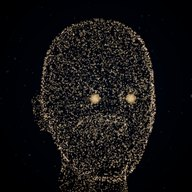
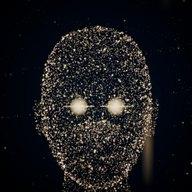
Preview: particle face tuned toward the user's reference (not shipped) [skip ci]

diff --git a/app/src/main/assets/www/local/particles.js b/app/src/main/assets/www/local/particles.js
@@ -5,9 +5,9 @@
 import * as THREE from 'three';
 import { MeshSurfaceSampler } from 'three/addons/math/MeshSurfaceSampler.js';
 
-const COUNT = 32000, DOT_PX = 1.6, DUST = 700;
+const COUNT = 32000, DOT_PX = 1.6, DUST = 900, RING = 900;
 const STATE = {                                     // [colour, glow] for each state (colour tints the gold a little)
-  idle: [0xffd9a0, 0.55], standby: [0xffd9a0, 0.55], session: [0xbff7e4, 0.8], listening: [0xbff7e4, 0.85],
+  idle: [0xffbe5c, 0.6], standby: [0xffbe5c, 0.6], session: [0xbff7e4, 0.8], listening: [0xbff7e4, 0.85],
   thinking: [0xffcf7a, 1.7], speaking: [0xd8f1ff, 0.95], muted: [0xff9aa2, 0.3],
 };
 
@@ -27,8 +27,9 @@ void main() {
   vec4 mv = modelViewMatrix * vec4(p, 1.0);
   gl_Position = projectionMatrix * mv;
   vHot = mouth * uSpeak;
-  vAlpha = aFade * (0.55 + 0.45 * (0.5 + 0.5 * tw));
-  gl_PointSize = uSize * (0.7 + 0.6 * fract(aPhase * 7.31)) * (1.0 + vHot * 0.8) / max(0.1, -mv.z);
+  float spark = pow(max(0.0, sin(uTime * (0.6 + aPhase * 1.7) + aPhase * 80.0)), 40.0);       // now and then a dot flashes
+  vAlpha = aFade * (0.55 + 0.45 * (0.5 + 0.5 * tw)) + spark * 1.2;
+  gl_PointSize = uSize * (0.6 + 1.5 * pow(fract(aPhase * 7.31), 8.0)) * (1.0 + vHot * 0.8 + spark * 0.9) / max(0.1, -mv.z);
 }`;
 const FRAG = `
 uniform vec3 uColor; uniform float uEnergy, uOpacity;
@@ -36,18 +37,28 @@ varying float vAlpha; varying float vHot;
 void main() {
   float d = length(gl_PointCoord - 0.5); if (d > 0.5) discard;
   float core = smoothstep(0.5, 0.0, d);
-  gl_FragColor = vec4(uColor * (0.6 + uEnergy * 0.7 + vHot), core * core * vAlpha * uOpacity * (0.45 + uEnergy * 0.5));
+  vec3 c = mix(uColor, vec3(1.0, 0.95, 0.85), smoothstep(0.25, 0.0, d) * 0.7);
+  gl_FragColor = vec4(c * (0.6 + uEnergy * 0.7 + vHot), core * vAlpha * uOpacity * (0.45 + uEnergy * 0.5));
 }`;
 
 // a small bright glint with a soft sideways streak (an eye catching the light), not a big glowing ball
 function glintTexture() {
   const c = document.createElement('canvas'); c.width = 128; c.height = 64; const g = c.getContext('2d');
   const streak = g.createLinearGradient(0, 0, 128, 0);
-  streak.addColorStop(0, 'rgba(255,210,140,0)'); streak.addColorStop(0.5, 'rgba(255,235,200,0.55)'); streak.addColorStop(1, 'rgba(255,210,140,0)');
-  g.fillStyle = streak; g.fillRect(24, 31, 80, 2);
-  const r = g.createRadialGradient(64, 32, 0, 64, 32, 18);
+  streak.addColorStop(0, 'rgba(255,210,140,0)'); streak.addColorStop(0.5, 'rgba(255,240,215,0.9)'); streak.addColorStop(1, 'rgba(255,210,140,0)');
+  g.fillStyle = streak; g.fillRect(34, 31, 60, 2);
+  const r = g.createRadialGradient(64, 32, 0, 64, 32, 11);
   r.addColorStop(0, 'rgba(255,255,255,1)'); r.addColorStop(0.3, 'rgba(255,236,200,0.8)'); r.addColorStop(1, 'rgba(255,200,120,0)');
   g.fillStyle = r; g.fillRect(40, 8, 48, 48); return new THREE.CanvasTexture(c);
+}
+
+// a soft vertical streak: a ray of light falling through the dark
+function rayTexture() {
+  const c = document.createElement('canvas'); c.width = 16; c.height = 128; const g = c.getContext('2d');
+  const v = g.createLinearGradient(0, 0, 0, 128); v.addColorStop(0, 'rgba(255,220,170,0)'); v.addColorStop(0.5, 'rgba(255,230,190,1)'); v.addColorStop(1, 'rgba(255,220,170,0)');
+  const h = g.createLinearGradient(0, 0, 16, 0); h.addColorStop(0, 'rgba(0,0,0,1)'); h.addColorStop(0.5, 'rgba(0,0,0,0)'); h.addColorStop(1, 'rgba(0,0,0,1)');
+  g.fillStyle = v; g.fillRect(0, 0, 16, 128); g.globalCompositeOperation = 'destination-out'; g.fillStyle = h; g.fillRect(0, 0, 16, 128);
+  return new THREE.CanvasTexture(c);
 }
 
 // reads a mesh's texture at a uv: [luminance, alpha] (hair is drawn on mostly transparent cards; skin is darker at the lips
@@ -79,7 +90,7 @@ export function particlize(model, { state = () => 'idle', level = () => 0, speak
   // where the head is, in the model's own space: our faces say so; otherwise guess from the bounding box
   const box = new THREE.Box3().setFromObject(model).applyMatrix4(toModel);
   const meta = model.userData.jvHead || { top: box.max.y, neck: box.max.y - (box.max.y - box.min.y) * 0.35 };
-  const span = meta.top - meta.neck, low = meta.neck - span * 0.3;             // keep the neck, fade out at the shoulders
+  const span = meta.top - meta.neck, low = meta.neck - span * 0.15;            // no body: the neck fades out under the chin
   const center = new THREE.Vector3(meta.cx || 0, meta.neck + span * 0.55, meta.cz || 0), d = new THREE.Vector3();
 
   // scatter points over the surfaces, by area
@@ -99,10 +110,10 @@ export function particlize(model, { state = () => 'idle', level = () => 0, speak
       const tx = tex ? tex(uv) : [ref, 1]; if (cards && tx[1] < 0.5) continue;   // skip see-through bits of hair cards
       nrm.transformDirection(mat);
       if (!cards && nrm.dot(d.subVectors(v, center)) < 0) continue;            // inside the mouth and nose: faces pointing inwards
-      if (!cards && Math.random() > 0.15 + 0.85 * Math.abs(nrm.z)) continue;   // surfaces seen edge-on pile dots up into bright creases: thin them
-      const tone = cards ? (brow ? 1.0 : 0.45) : Math.min(1.1, Math.max(0.85, tx[0] / (ref || 1)));
       d.subVectors(v, center).setY(0).normalize(); const outline = Math.pow(1 - Math.abs(nrm.z), 2) * Math.max(0, nrm.x * d.x + nrm.z * d.z);   // the head's outer edge, not creases inside the face
-      pos.push(v.x, v.y, v.z); phase.push(Math.random()); fade.push(tone * (1 + outline) * Math.min(1, Math.max(0.05, (v.y - low) / (span * 0.3))));
+      if (!cards && outline < 0.3 && Math.random() > 0.1 + 0.6 * Math.abs(nrm.z)) continue;   // inside the face: sparse, see-through (creases would pile up)
+      const tone = cards ? (brow ? 1.0 : 0.45) : Math.min(1.1, Math.max(0.85, tx[0] / (ref || 1)));
+      pos.push(v.x, v.y, v.z); phase.push(Math.random()); fade.push(tone * (0.55 + 0.5 * (1 - Math.abs(nrm.z)) + 1.4 * outline) * Math.min(1, Math.max(0.05, (v.y - low) / (span * 0.3))));   // features and outline bright, the middle of the face see-through
     }
     m.visible = false;
   });
@@ -122,7 +133,7 @@ export function particlize(model, { state = () => 'idle', level = () => 0, speak
   let front = -Infinity; for (let i = 0; i < pos.length; i += 3) if (Math.abs(pos[i + 1] - mouthY) < span * 0.04) front = Math.max(front, pos[i + 2]);
   const u = {
     uTime: { value: 0 }, uEnergy: { value: 0.55 }, uSwirl: { value: 0 }, uSize: { value: 1 }, uOpacity: { value: 1 },
-    uColor: { value: new THREE.Color(0xffd9a0) }, uMouthY: { value: mouthY }, uMouthZ: { value: (Number.isFinite(front) ? front : 0) - span * 0.06 },
+    uColor: { value: new THREE.Color(0xffbe5c) }, uMouthY: { value: mouthY }, uMouthZ: { value: (Number.isFinite(front) ? front : 0) - span * 0.06 },
     uSpeak: { value: 0 }, uMic: { value: 0 }, uSpan: { value: span }, uCenter: { value: center },
   };
   const pmat = new THREE.ShaderMaterial({ uniforms: u, vertexShader: VERT, fragmentShader: FRAG, transparent: true, depthWrite: false, blending: THREE.AdditiveBlending });
@@ -135,9 +146,26 @@ export function particlize(model, { state = () => 'idle', level = () => 0, speak
     const eb = new THREE.Box3(); eyes.forEach(e => eb.expandByObject(e)); eb.applyMatrix4(toModel);
     const c = eb.getCenter(new THREE.Vector3()), dx = (eb.max.x - eb.min.x) / 4, tex = glintTexture();
     for (const sx of [-1, 1]) {
-      const sp = new THREE.Sprite(new THREE.SpriteMaterial({ map: tex, color: 0xffe2b0, transparent: true, depthWrite: false, depthTest: false, blending: THREE.AdditiveBlending }));
-      sp.position.set(c.x + sx * dx - center.x, c.y - center.y, eb.max.z - center.z); sp.scale.set(span * 0.2, span * 0.1, 1); pivot.add(sp); lights.push(sp);
+      const sp = new THREE.Sprite(new THREE.SpriteMaterial({ map: tex, color: 0xfff0d6, transparent: true, depthWrite: false, depthTest: false, blending: THREE.AdditiveBlending }));
+      sp.position.set(c.x + sx * dx - center.x, c.y - center.y, eb.max.z - center.z); sp.scale.set(span * 0.3, span * 0.15, 1); pivot.add(sp); lights.push(sp);
     }
+  }
+
+  // faint orbits of dust around the head, and soft rays of light falling through the dark
+  const rp = [], rph = [], rf = [];
+  for (const [tilt, rad] of [[0.35, 1.25], [-0.3, 1.5], [1.25, 1.4], [0.9, 1.75]]) for (let i = 0; i < RING; i++) {
+    const t = Math.random() * Math.PI * 2, r = span * rad * (0.93 + Math.random() * 0.14), y = Math.sin(t) * r * Math.sin(tilt);
+    rp.push(Math.cos(t) * r, y, Math.sin(t) * r * Math.cos(tilt)); rph.push(Math.random()); rf.push(0.15 + 0.6 * Math.random() * Math.random());
+  }
+  const rg = new THREE.BufferGeometry(); rg.setAttribute('position', new THREE.Float32BufferAttribute(rp, 3));
+  rg.setAttribute('aPhase', new THREE.Float32BufferAttribute(rph, 1)); rg.setAttribute('aFade', new THREE.Float32BufferAttribute(rf, 1));
+  const halo = new THREE.Points(rg, pmat); halo.frustumCulled = false; halo.position.copy(center); model.add(halo);
+  const rays = [], rtex = rayTexture();
+  for (let i = 0; i < 6; i++) {
+    const r = new THREE.Sprite(new THREE.SpriteMaterial({ map: rtex, color: 0xffdcae, transparent: true, depthWrite: false, depthTest: false, blending: THREE.AdditiveBlending }));
+    r.userData.o = 0.08 + Math.random() * 0.14; r.scale.set(span * 0.08, span * (0.5 + Math.random() * 0.4), 1);
+    r.position.set(center.x + (Math.random() < 0.5 ? -1 : 1) * span * (0.8 + Math.random() * 0.6), center.y + (Math.random() * 3 - 1.4) * span, center.z - span * Math.random());   // beside and behind the head, never across the face
+    model.add(r); rays.push(r);
   }
 
   // every frame: follow what he's doing
@@ -151,11 +179,13 @@ export function particlize(model, { state = () => 'idle', level = () => 0, speak
     energy += (glow + mic * 0.4 - energy) * 0.08; swirl += ((state() === 'thinking' ? 1 : 0) - swirl) * 0.05;
     target.set(col); u.uColor.value.lerp(target, 0.08);
     u.uTime.value = (performance.now() - t0) / 1000;
-    pivot.rotation.y = 0.2 + 0.1 * Math.sin(u.uTime.value * 0.31) + 0.03 * Math.sin(u.uTime.value * 0.83);   // turned a little, slowly moving: it reads as a real head
+    pivot.rotation.y = 0.05 * Math.sin(u.uTime.value * 0.31) + 0.02 * Math.sin(u.uTime.value * 0.83);   // facing you, barely moving: alive
     pivot.rotation.x = 0.03 * Math.sin(u.uTime.value * 0.23); u.uEnergy.value = energy; u.uSwirl.value = swirl;
     u.uSpeak.value = speak(); u.uMic.value = state() === 'listening' || state() === 'session' ? mic : 0;
     u.uOpacity.value = pmat.opacity;                                              // the page fades faces in and out with .opacity
-    for (const l of lights) { l.material.opacity = pmat.opacity * Math.min(1, 0.55 + energy * 0.3 + (state() === 'thinking' ? 0.2 * Math.sin(u.uTime.value * 6) : 0)); l.material.color.copy(u.uColor.value); }
+    for (const l of lights) { l.material.opacity = pmat.opacity * Math.min(1, 0.8 + energy * 0.2 + (state() === 'thinking' ? 0.2 * Math.sin(u.uTime.value * 6) : 0)); }
+    halo.rotation.y = u.uTime.value * 0.05; halo.rotation.x = 0.35 * Math.sin(u.uTime.value * 0.07);
+    for (const r of rays) { r.position.y -= span * 0.0025; if (r.position.y < -span * 1.4) r.position.y = span * 1.6; r.material.opacity = pmat.opacity * r.userData.o; }
   };
-  return { points, count: pos.length / 3 };
+  return { points, count: pos.length / 3 };   // (the orbits share the dots' material, so they glow and fade with him)
 }
